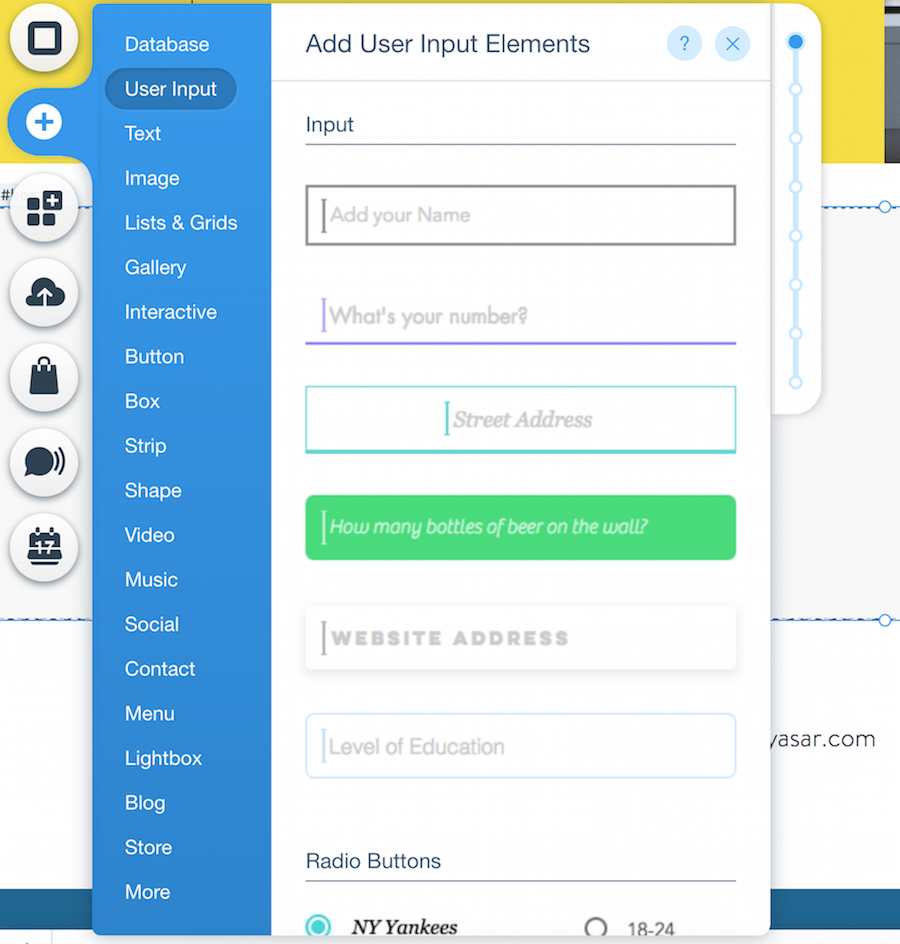
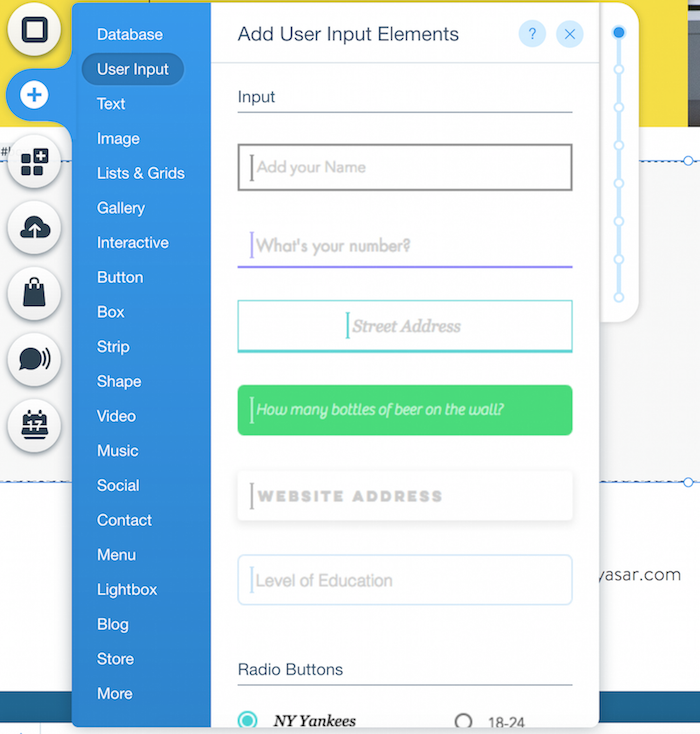
docs: fix links & resize images

diff --git a/INTEGRATION.md b/INTEGRATION.md
@@ -21,8 +21,8 @@ Also, make sure amount is between 2 and 5000.
 
 In addition, Add another UI button to submit the data for the invoice generation in backend.
 
-(one)[https://raw.githubusercontent.com/moyasar/moyasar-wix/master/images/1.png]
-(two)[https://raw.githubusercontent.com/moyasar/moyasar-wix/master/images/2.png]
+![one](https://raw.githubusercontent.com/abarrak/moyasar-invoices-wix/master/images/1.png)
+![two](https://raw.githubusercontent.com/abarrak/moyasar-invoices-wix/master/images/2.png)
 
 Keep in mind that UI is flexible and should be aligned according to client's requirements.
 
@@ -30,12 +30,12 @@ Keep in mind that UI is flexible and should be aligned according to client's req
 
 - Create new file in backend section of site with name `moyasarInvoicesModule.jsw`.
 
-(three)[https://raw.githubusercontent.com/moyasar/moyasar-wix/master/images/3.png]
+![three](https://raw.githubusercontent.com/abarrak/moyasar-invoices-wix/master/images/3.png)
 
 - Copy `backend.js` file to the newly created module in Wix backend.
 - **Ensure to specifying client's API secret key** at the very first line in code using `clientSecretKey` variable.
 
-(four)[https://raw.githubusercontent.com/moyasar/moyasar-wix/master/images/4.png]
+![four](https://raw.githubusercontent.com/abarrak/moyasar-invoices-wix/master/images/4.png)
 
 
 ## 3. Interact via Front-End with Web Module and Finalize Process
@@ -45,7 +45,7 @@ Keep in mind that UI is flexible and should be aligned according to client's req
 - Adjust description according to client's specification and needs.
 - Set all the needed UI textboxes and buttons with validation and event handlers if any.
 
-(five)[https://raw.githubusercontent.com/moyasar/moyasar-wix/master/images/5.png]
+![five](https://raw.githubusercontent.com/abarrak/moyasar-invoices-wix/master/images/5.png)
 
 ## 4. Design and Code Supporting LightBox UI
 
@@ -56,8 +56,7 @@ Add lighbox widget for user popup upon invoice generation result reception, as t
 4. Ensure to change lightbox name, and id to `thankYouLightbox`
 5. Specify lightbox settings for not showing automatically and with appropriate background color.
 
-(five)[https://raw.githubusercontent.com/moyasar/moyasar-wix/master/images/5.png]
-(five)[https://raw.githubusercontent.com/moyasar/moyasar-wix/master/images/5.png]
+![six](https://raw.githubusercontent.com/abarrak/moyasar-invoices-wix/master/images/6.png)
 
 ## 5. Publish and Test
 
@@ -69,6 +68,3 @@ Publish the site after steps completed and verify it's functioning properly with
 You're likely will have different imaginary view from the customer in regard of UI, message notices, design, etc.
 
 In theses cases, use Wix Editor, JavaScript, [HTML Component](https://support.wix.com/en/article/working-with-the-html-component-in-wix-code), and even other [Wix Apps from the market](https://www.wix.com/app-market/main) to fulfill the requirements.
-
-
-(coding)[https://raw.githubusercontent.com/moyasar/moyasar-wix/master/images/code.jpg]

diff --git a/README.md b/README.md
@@ -11,18 +11,14 @@ It leverages Wix Code APIs for the backend and frontend.
 
 ## Installation Guide
 
-Follow [the guide here](https://github.com/moyasar/moyasar-wix/master/INTEGRATION.md).
+Follow [the guide here](https://github.com/abarrak/moyasar-wix-invoices/master/INTEGRATION.md).
 
-
-## Moyasar Sample Shop
-
-[This is a sample store](https://abarrak.wixsite.com/moyasar-dev-store/sample-invoice) to carry on development and testing.
 
 ## Moyasar as Shop Payment Provider
 
 This is not available currently in Wix store.
 
-(wix-store)[https://raw.githubusercontent.com/moyasar/moyasar-wix/master/images/wix-store.png]
+![wix-store](https://raw.githubusercontent.com/abarrak/moyasar-invoices-wix/master/images/wix-store.png)
 
 Wix [does not support 3DS](https://support.wix.com/en/article/request-implementing-3d-secure-payments) at the time of writing.
 
